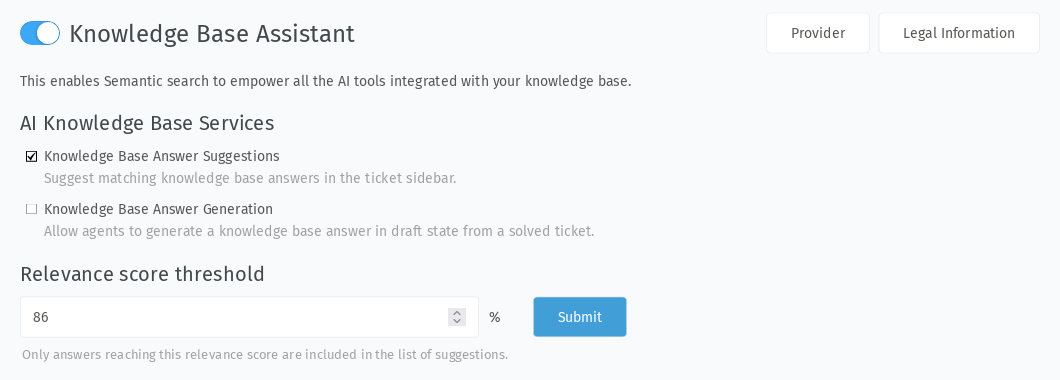
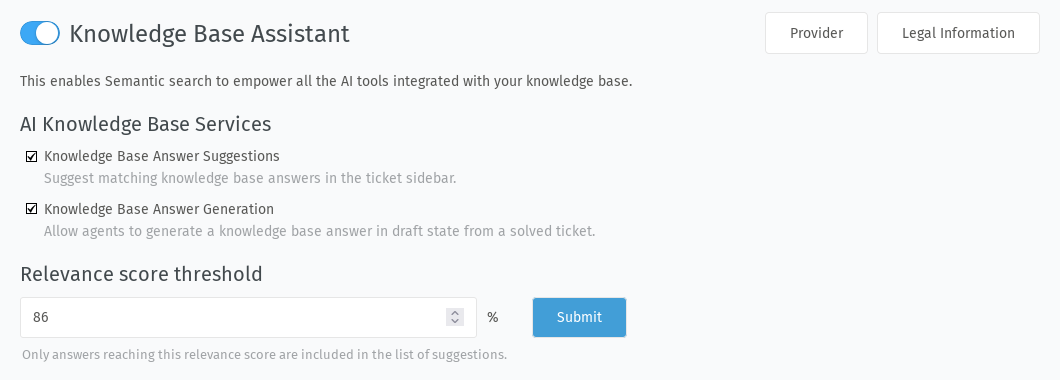
WIP

diff --git a/ai/knowledge-base-assistant.rst b/ai/knowledge-base-assistant.rst
@@ -2,18 +2,15 @@ Knowledge Base Assistant
 ========================
 
 Zammad's knowledge base assistant helps your agents find existing
-knowledge base answers for incoming tickets and draft a new one from the
+knowledge base answers for incoming tickets and draft new ones from the
 ticket content. The feature is configured in Zammad's admin settings
 under *AI > Knowledge Base Assistant* and requires the
 ``admin.ai_knowledge_base`` permission. Make sure to configure an
-:doc:`AI provider <provider>` before activating the feature. Otherwise,
-a warning message will tell you to do so.
+:doc:`AI provider <provider>` with the **Semantic search** capability before
+activating the feature. Otherwise, Zammad shows a warning message.
 
 The configuration page only appears when at least one knowledge base is
-active in *Manage > Knowledge Base*. Without an active knowledge base,
-the AI tools have nothing to search or draft from.
-
-Activate the feature by turning on the switch.
+active in *Manage > Knowledge Base*.
 
 .. figure:: /images/ai/knowledge-base-assistant.png
    :alt: Screenshot shows the Knowledge Base Assistant configuration screen
@@ -24,39 +21,67 @@ Activate the feature by turning on the switch.
 Configuration
 -------------
 
-The page exposes two capability toggles and a relevance score threshold.
+Here goes the individual provider.
+
+The page shows two checkboxes and a configurable relevance score threshold.
 
 Knowledge Base Answer Suggestions
-   Turn the related-answer suggestions on or off. When enabled, Zammad
-   surfaces existing knowledge base answers whose content matches the
-   ticket in the **Related Knowledge** section of the ticket sidebar, where
-   the agent can open the answer, copy a link, or send it to the customer
-   in one click.
+   When enabled, Zammad shows existing knowledge base answers whose content
+   matches the ticket in the **Related Knowledge** section of the ticket
+   sidebar. Answers are only shown when they are above the configured relevance
+   threshold.
+
+   Agents can open a suggested knowledge base answer directly. If the suggested
+   answer solves the problem, the agent can link the answer permanently.
+
+   .. warning::
+
+      Agents should check the answer before sending the suggested article to
+      the customer. Even a high relevance doesn't necessarily mean that it's
+      content solves the customer's issue.
 
 Knowledge Base Answer Generation
-   Turn the draft-from-ticket action on or off. When enabled, the agent
-   can ask the AI to draft a new knowledge base answer from the ticket's
-   content. The draft opens in a side panel where the agent can review,
-   edit, and publish it directly into your knowledge base.
+   When enabled, the agent can ask the AI to draft a new knowledge base answer
+   from the ticket's content. If a related answer is detected, Zammad shows a
+   preview in a dialog and asks if the agent really wants to trigger the
+   generation of a new answer. The AI generated answer is linked to the ticket
+   then.
+
+   Important information:
+
+   - The knowledge base answer is generated as draft and doesn't get published
+     automatically.
+   - The answer is generated in the default language of your knowledge base.
+   - The answer includes a note in the content and a tag (``ai-generated``)
+     about the AI generation.
+   - A link to the answer is included in the ticket it was generated from.
+   - The AI request includes a list of the knowledge base categories for which
+     the (human) agent has editor permissions. The AI then chooses one of these
+     categories.
+
+   .. warning::
+
+      Even though there are instructions to remove personal and customer
+      specific information in the response, make sure your agents carefully
+      review it before the answer gets used or even published.
 
 .. _kb-assistant-relevance-threshold:
 
 Relevance Score Threshold
    Only knowledge base answers reaching this score are included in the
-   list of suggestions. The default is ``81 %``. Lower values surface
-   more suggestions (and more false positives); higher values surface
-   only strong matches. Values near ``0 %`` indicate content that is the
-   opposite of the ticket's, so a very low threshold can surface
-   irrelevant answers.
+   list of suggestions. The default is ``86 %``. Lower values show more
+   suggestions (and more false positives); higher values show only strong
+   matches.
+
+After the configuration is done, activate the feature by turning on the switch
+at the top of the page.
 
 Usage for Agents
 ----------------
 
-**When the feature is enabled**, agents see related knowledge base
-answers in the **Related Knowledge** section of the ticket sidebar. The
-draft-from-ticket action is available whenever the agent has the
-``knowledge_base.editor`` permission and an :doc:`AI provider
-<provider>` is configured. The
-:user-docs:`knowledge base assistant section in the user documentation
-</extras/ai-features.html>` includes additional information for your
-agents.
+When the feature is enabled, agents see related knowledge base answers in the
+**Related Knowledge** section of the ticket sidebar. The draft-from-ticket
+action is available whenever the agent has the ``knowledge_base.editor``
+permission and an :doc:`AI provider <provider>` is configured. The
+:user-docs:`knowledge base assistant section in the user documentation </extras/ai-features.html>`
+includes additional information for your agents.
